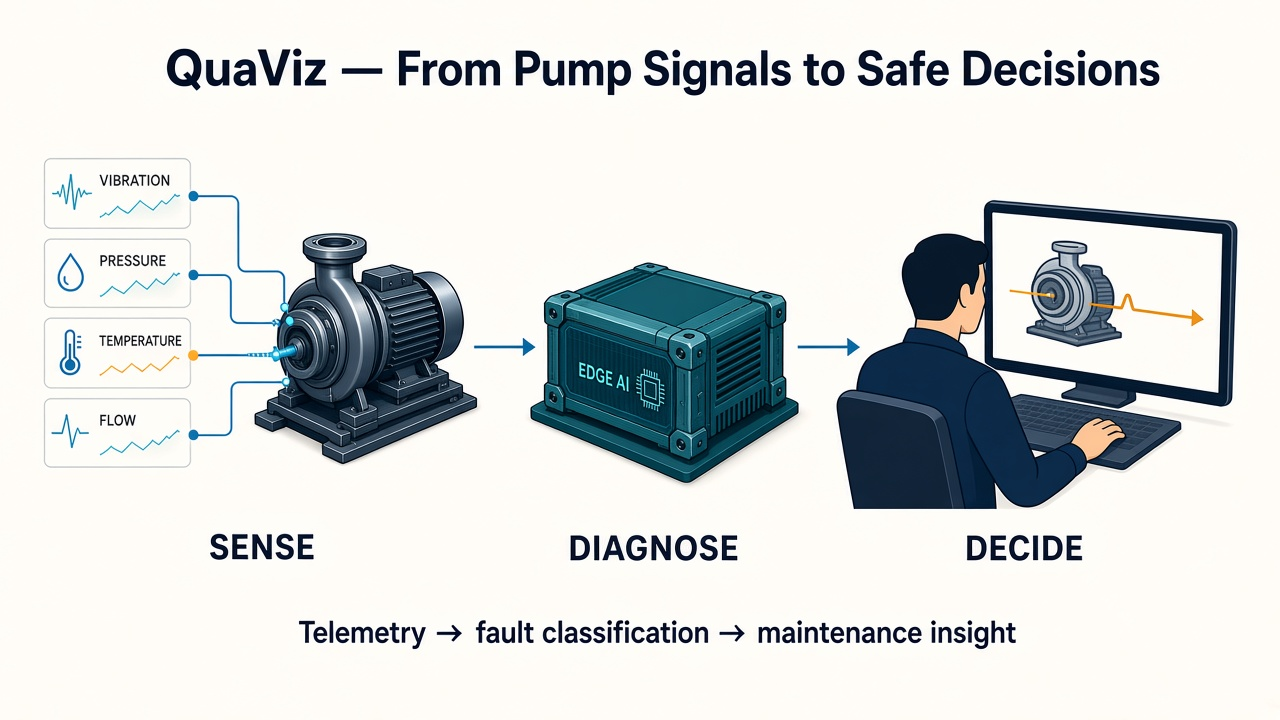
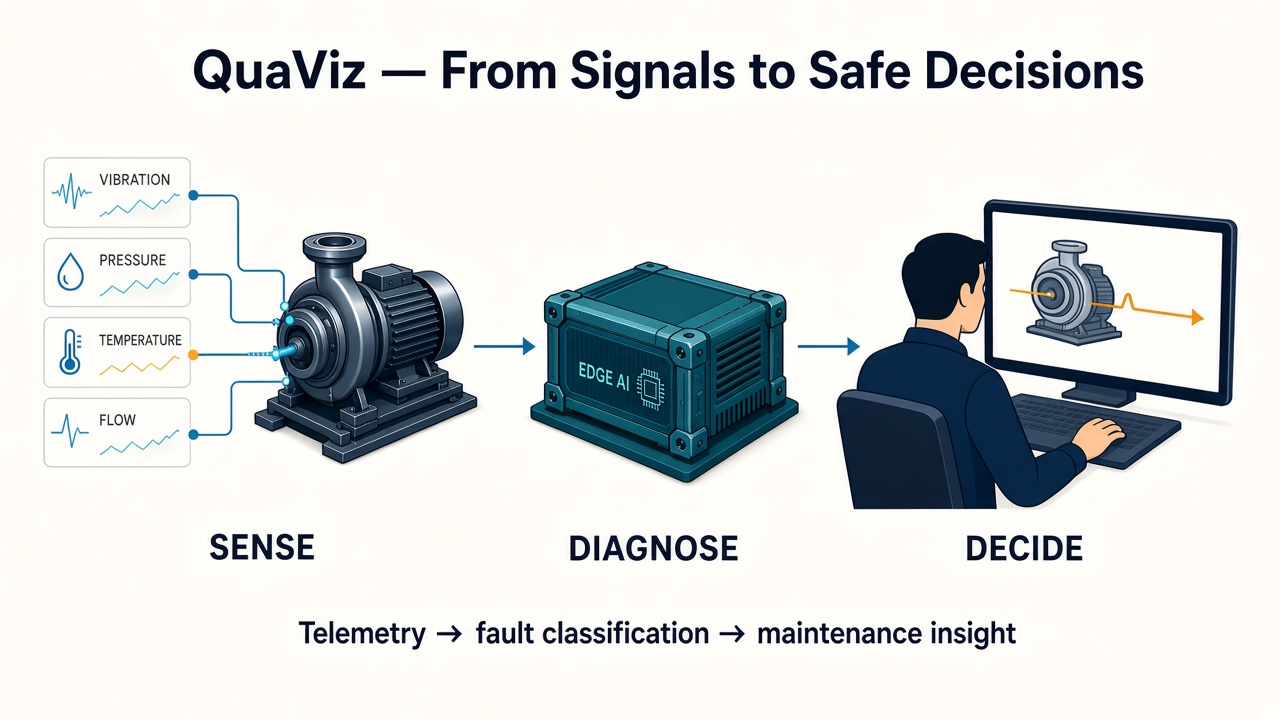
chore: refactor

diff --git a/retrofit_starter/solution/make_figures.py b/retrofit_starter/solution/make_figures.py
@@ -13,43 +13,69 @@ CHALLENGE = HERE.parent
 OUT = HERE / "figures"
 OUT.mkdir(parents=True, exist_ok=True)
 
-NAMES = {"astra-best": "best", "quaviz": "fleet detector", "b1": "B1", "b3": "B3", "b2": "B2", "b0": "B0"}
-SETS = {"validation": "Validation\n(PUMP-08/09)", "astra holdout": "Frozen holdout\n(78 events)"}
+NAMES = {"astra-best": "best", "b1": "B1", "b3": "B3", "b2": "B2", "b0": "B0"}
+COLORS = {"astra-best": "#1b9e77", "b1": "#7570b3", "b3": "#e7298a", "b2": "#66a61e", "b0": "#a6761d"}
 
 
 def headline():
     s = pd.read_csv(HERE / "comparison" / "results" / "comparison.csv")
-    s = s[s["method"].isin(NAMES) & s["set"].isin(SETS)]
-    colors = {"astra-best": "#1b9e77", "quaviz": "#d95f02", "b1": "#7570b3", "b3": "#e7298a", "b2": "#66a61e",
-              "b0": "#a6761d"}
-    order = list(SETS)
-    x = np.arange(len(order))
-    w = 0.13
-    fig, ax = plt.subplots(figsize=(8, 4.5))
-    for i, m in enumerate(NAMES):
-        vals = [float(s[(s.method == m) & (s.set == st)]["composite_score"].iloc[0]) for st in order]
-        ax.bar(x + (i - len(NAMES) / 2) * w + w / 2, vals, w, label=NAMES[m], color=colors[m])
+    s = s[s["method"].isin(NAMES) & (s["set"] == "validation")]
+    methods = list(NAMES)
+    vals = [float(s[s.method == m]["composite_score"].iloc[0]) for m in methods]
+    fig, ax = plt.subplots(figsize=(7.5, 4.2))
+    x = np.arange(len(methods))
+    ax.bar(x, vals, width=0.62, color=[COLORS[m] for m in methods])
     ax.set_xticks(x)
-    ax.set_xticklabels([SETS[st] for st in order])
+    ax.set_xticklabels([NAMES[m] for m in methods])
     ax.set_ylabel("Official composite / 100")
     ax.set_ylim(0, 100)
-    ax.legend(ncol=3, fontsize=8, loc="upper right")
-    ax.set_title("Same scorer, two evaluation sets")
+    for i, v in enumerate(vals):
+        ax.text(i, v + 1.5, f"{v:.1f}", ha="center", va="bottom", fontsize=9)
+    ax.set_title("Official validation (PUMP-08/09): best vs baselines")
     fig.tight_layout()
     fig.savefig(OUT / "01_headline_composites.png", dpi=140)
     plt.close(fig)
 
 
+def validation_prf():
+    s = pd.read_csv(HERE / "comparison" / "results" / "comparison.csv")
+    s = s[s["method"].isin(NAMES) & (s["set"] == "validation")].set_index("method")
+    methods = list(NAMES)
+    metrics = [
+        ("event_recall", "Event recall"),
+        ("alert_precision", "Alert precision"),
+        ("event_f1", "Event F1"),
+    ]
+    x = np.arange(len(metrics))
+    w = 0.15
+    fig, ax = plt.subplots(figsize=(8.2, 4.4))
+    for i, m in enumerate(methods):
+        vals = [float(s.loc[m, key]) for key, _ in metrics]
+        ax.bar(x + (i - (len(methods) - 1) / 2) * w, vals, w, label=NAMES[m], color=COLORS[m])
+        for xi, v in zip(x + (i - (len(methods) - 1) / 2) * w, vals):
+            ax.text(xi, v + 0.02, f"{v:.2f}", ha="center", va="bottom", fontsize=7, rotation=90)
+    ax.set_xticks(x)
+    ax.set_xticklabels([label for _, label in metrics])
+    ax.set_ylabel("Score (0–1)")
+    ax.set_ylim(0, 1.18)
+    ax.legend(ncol=5, fontsize=8, loc="upper right")
+    ax.set_title("Official validation (PUMP-08/09): precision, recall, and F1")
+    ax.axhline(1.0, color="#bbbbbb", lw=0.8, ls=":")
+    fig.tight_layout()
+    fig.savefig(OUT / "08_validation_prf.png", dpi=140)
+    plt.close(fig)
+
+
 def per_type():
     pe = pd.read_csv(HERE / "comparison" / "results" / "per_event.csv")
-    methods = ["astra-best", "quaviz", "b1"]
-    pe = pe[pe["method"].isin(methods) & (pe["set"] == "astra holdout")].copy()
+    methods = list(NAMES)
+    pe = pe[pe["method"].isin(methods) & (pe["set"] == "validation")].copy()
     pe["named"] = pe["type_correct"].astype(int)
     g = pe.groupby(["fault_type", "method"]).agg(n=("detected", "size"), named=("named", "sum"))
     rate = (g["named"] / g["n"]).unstack("method").reindex(columns=methods)
     n = g["n"].unstack("method")["astra-best"]
     rate = rate.sort_values("astra-best", ascending=False)
-    fig, ax = plt.subplots(figsize=(8, 6))
+    fig, ax = plt.subplots(figsize=(8, 5.5))
     im = ax.imshow(rate.to_numpy(float), aspect="auto", vmin=0, vmax=1, cmap="viridis")
     ax.set_xticks(range(len(methods)))
     ax.set_xticklabels([NAMES[m] for m in methods])
@@ -62,9 +88,9 @@ def per_type():
             if np.isfinite(v):
                 ax.text(j, i, f"{v:.0%}", ha="center", va="center", color="white" if v < 0.55 else "black", fontsize=8)
     fig.colorbar(im, ax=ax, fraction=0.03, label="First-alert type correct")
-    ax.set_title("Frozen holdout: fraction of events named correctly first")
+    ax.set_title("Official validation: fraction of events named correctly first")
     fig.tight_layout()
-    fig.savefig(OUT / "02_per_type_holdout.png", dpi=140)
+    fig.savefig(OUT / "02_per_type_validation.png", dpi=140)
     plt.close(fig)
 
 
@@ -128,10 +154,16 @@ def copy_static():
 
 
 def main():
-    for old in ["02_per_type_holdouts.png", "08_sim_coverage.png", "09_sim_event_mix.png"]:
+    for old in [
+        "02_per_type_holdouts.png",
+        "02_per_type_holdout.png",
+        "08_sim_coverage.png",
+        "09_sim_event_mix.png",
+    ]:
         (OUT / old).unlink(missing_ok=True)
     headline()
     per_type()
+    validation_prf()
     validation_timeline()
     stage1_separability()
     copy_static()

diff --git a/retrofit_starter/solution/final_model/deploy/runner.py b/retrofit_starter/solution/final_model/deploy/runner.py
@@ -3,6 +3,7 @@ from __future__ import annotations
 
 import json
 from pathlib import Path
+import threading
 
 import joblib
 import pandas as pd
@@ -41,6 +42,17 @@ class OnlineBest:
         )
         self.features = pd.DataFrame()
         self._seen_alert_keys: set[tuple] = set()
+        self._lock = threading.Lock()
+
+    def effective_asset(self) -> pd.Series:
+        asset = self.asset.copy()
+        with self._lock:
+            if len(self.features):
+                starts = pd.to_datetime(self.features["window_start_utc"], utc=True)
+                first = starts.min()
+                if pd.Timestamp(asset.window_start_utc) < first:
+                    asset["window_start_utc"] = first.isoformat()
+        return asset
 
     def extend_features(self, minute_frame: pd.DataFrame) -> None:
         if minute_frame is None or not len(minute_frame):
@@ -49,31 +61,36 @@ class OnlineBest:
         frame["window_start_utc"] = pd.to_datetime(frame["window_start_utc"], utc=True)
         # Live feeds can re-emit a minute (late MQTT, replay restart, flush races).
         # Keep one row per window_start_utc so build_features never sees duplicates.
-        if len(self.features):
-            prev = self.features.copy()
-            prev["window_start_utc"] = pd.to_datetime(prev["window_start_utc"], utc=True)
-            combined = pd.concat([prev, frame], ignore_index=True)
-        else:
-            combined = frame
-        combined = combined.drop_duplicates(subset=["window_start_utc"], keep="last")
-        combined = combined.sort_values("window_start_utc").reset_index(drop=True)
-        self.features = combined
+        with self._lock:
+            if len(self.features):
+                prev = self.features.copy()
+                prev["window_start_utc"] = pd.to_datetime(prev["window_start_utc"], utc=True)
+                combined = pd.concat([prev, frame], ignore_index=True)
+            else:
+                combined = frame
+            combined = combined.drop_duplicates(subset=["window_start_utc"], keep="last")
+            combined = combined.sort_values("window_start_utc").reset_index(drop=True)
+            self.features = combined
 
     def infer_new_alerts(self, until: pd.Timestamp | None = None) -> pd.DataFrame:
-        if not len(self.features):
-            return pd.DataFrame(columns=COLS)
-        starts = pd.to_datetime(self.features["window_start_utc"], utc=True)
-        if until is None:
-            # A completed minute [t, t+1) becomes available at t+1.
-            until = starts.max() + pd.Timedelta(minutes=1)
-        # Do not treat pre-stream history as gateway loss: clip the asset window
-        # to the first minute we have actually aggregated from the live feed.
-        asset = self.asset.copy()
-        first = starts.min()
-        if pd.Timestamp(asset.window_start_utc) < first:
-            asset["window_start_utc"] = first.isoformat()
+        with self._lock:
+            if not len(self.features):
+                return pd.DataFrame(columns=COLS)
+            features = self.features.copy()
+            features["window_start_utc"] = pd.to_datetime(features["window_start_utc"], utc=True)
+            features = features.drop_duplicates(subset=["window_start_utc"], keep="last")
+            starts = features["window_start_utc"]
+            if until is None:
+                # A completed minute [t, t+1) becomes available at t+1.
+                until = starts.max() + pd.Timedelta(minutes=1)
+            # Do not treat pre-stream history as gateway loss: clip the asset window
+            # to the first minute we have actually aggregated from the live feed.
+            asset = self.asset.copy()
+            first = starts.min()
+            if pd.Timestamp(asset.window_start_utc) < first:
+                asset["window_start_utc"] = first.isoformat()
         alerts = infer_asset(
-            self.model, self.policy, self.features, asset,
+            self.model, self.policy, features, asset,
             self.context, self.snapshots, until=until,
         )
         if alerts.empty:

diff --git a/app/backend/quaviz_backend/pipeline.py b/app/backend/quaviz_backend/pipeline.py
@@ -198,11 +198,12 @@ def explain_live_alert(*, online, alert: dict[str, Any], settings: Settings) -> 
     target_t = pd.Timestamp(alert["alert_time_utc"])
     target_f = str(alert["fault_type"])
     # First pass discovers alert list; second pass (if needed) selects the matching card.
+    asset = online.effective_asset() if hasattr(online, "effective_asset") else online.asset
     explained = explain_alert(
         model=online.model,
         policy=online.policy,
         features=online.features,
-        asset=online.asset,
+        asset=asset,
         context=online.context,
         snapshots=online.snapshots,
         alert_index=0,
@@ -221,7 +222,7 @@ def explain_live_alert(*, online, alert: dict[str, Any], settings: Settings) -> 
             model=online.model,
             policy=online.policy,
             features=online.features,
-            asset=online.asset,
+            asset=asset,
             context=online.context,
             snapshots=online.snapshots,
             alert_index=match_idx,

diff --git a/app/backend/quaviz_backend/mqtt.py b/app/backend/quaviz_backend/mqtt.py
@@ -3,6 +3,7 @@ from __future__ import annotations
 
 import json
 import logging
+import os
 import queue
 import threading
 import time
@@ -20,13 +21,13 @@ class MqttSubscriber:
         host: str,
         port: int = 1883,
         topic: str = "retrofit/+/+/telemetry",
-        client_id: str = "quaviz-backend",
+        client_id: str | None = None,
         out: queue.Queue | None = None,
     ):
         self.host = host
         self.port = port
         self.topic = topic
-        self.client_id = client_id
+        self.client_id = client_id or f"quaviz-backend-{os.getpid()}"
         self.out = out if out is not None else queue.Queue(maxsize=100_000)
         self._client = None
         self._connected = threading.Event()

diff --git a/retrofit_starter/solution/final_model/features.py b/retrofit_starter/solution/final_model/features.py
@@ -43,7 +43,8 @@ def build_features(features,asset,context=None,snapshots=None,until=None):
     f=features[features.asset_id==asset.asset_id].copy()
     f['window_start_utc']=pd.to_datetime(f.window_start_utc,utc=True)
     f=f[(f.window_start_utc>=start)&(f.window_start_utc+pd.Timedelta(minutes=1)<=until)]
-    if f.window_start_utc.duplicated().any():raise ValueError('Duplicate minute')
+    if f.window_start_utc.duplicated().any():
+        f=f.drop_duplicates(subset=['window_start_utc'],keep='last')
     f=f.set_index('window_start_utc').reindex(grid).rename_axis('window_start_utc').reset_index()
     f['available_utc']=f.window_start_utc+pd.Timedelta(minutes=1)
     f['asset_id']=asset.asset_id

diff --git a/retrofit_starter/SOLUTION.md b/retrofit_starter/SOLUTION.md
@@ -142,16 +142,13 @@ Same official scorer everywhere. Frozen `model.joblib` numbers reproduced for va
 
 From [`solution/comparison/results/comparison.csv`](solution/comparison/results/comparison.csv):
 
-| Set | **best** | Fleet (quaviz) | B1 | B3 | B2 | B0 |
-|---|---:|---:|---:|---:|---:|---:|
-| Validation (9 events) | **95.0** | 75.0 | 78.0 | 69.2 | 50.9 | 23.1 |
-| Astra frozen holdout (78) | **63.5** | 52.5 | 41.7 | 32.3 | 44.9 | 10.0 |
-
-B0 is 10.0 on astra holdout (no SCADA alarm table on those recordings).
+| Set | **best** | B1 | B3 | B2 | B0 |
+|---|---:|---:|---:|---:|---:|
+| Validation (9 events) | **95.0** | 78.0 | 69.2 | 50.9 | 23.1 |
 
 ![Headline composites](solution/figures/01_headline_composites.png)
 
-![Per-type on the frozen holdout](solution/figures/02_per_type_holdout.png)
+![Per-type on official validation](solution/figures/02_per_type_validation.png)
 
 ![Validation timeline](solution/figures/03_validation_timeline.png)
 
